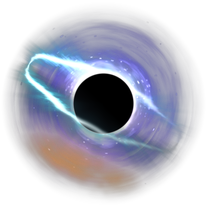
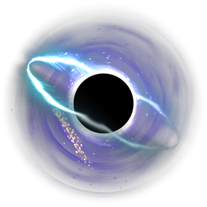
Ringed black hole: feed the ring with a narrow stream of golden dust
The golden cloud below becomes a thin stream of grains, each with a short
trail, drifting up from below and falling into the ring on its near side.

Claude-Session: https://claude.ai/code/session_01Qg6ZbjjWLi3AZ8z83RBn1h

diff --git a/tools/make_barriers.py b/tools/make_barriers.py
@@ -1394,13 +1394,13 @@ def build_protostars(rng, out, save, apply_mask, starfield, mask):
 # ---------------------------------------------------------------- ringed black hole
 # A black hole seen without a bright accretion disc: a dead-black globe in
 # a violet halo of light its gravity bends round it, crossed by one thin
-# tilted ring of glowing gas, cyan-white and fraying at the edges, with a
-# drift of golden dust trailing off below. Drawn for one hex (^Yrb) and
-# for a triangle of three (^Ytrb).
+# tilted ring of glowing gas, cyan-white and fraying at the edges, fed
+# by a narrow stream of golden dust drifting in from below. Drawn for one
+# hex (^Yrb) and for a triangle of three (^Ytrb).
 
 def ringed_black_hole(rng, size=128, R=14, A=46, tilt=0.3, angle=28, ring_w=1.1,
                       halo=(0.36, 0.3, 1.0), halo_hot=(0.85, 0.8, 1.0), ring=(0.35, 0.9, 1.0),
-                      dust=(1.0, 0.66, 0.16), dust_k=1.0, n_specks=60):
+                      dust=(1.0, 0.66, 0.16), dust_k=1.0, n_specks=60, n_grains=90):
     """`R` is the globe's radius and `A` the ring's (half its width), in
     pixels of the finished `size` square; the ring is seen at `tilt` (1
     face-on) and turned `angle` degrees, its near half crossing in front of
@@ -1429,13 +1429,7 @@ def ringed_black_hole(rng, size=128, R=14, A=46, tilt=0.3, angle=28, ring_w=1.1,
     rim = np.exp(-((d - R * 1.04) / (0.05 * R + 0.3)) ** 2) * (0.6 + 0.4 * arcs2)
     back += np.array(halo_hot, np.float32) * rim[..., None] * 0.8
 
-    # golden dust trailing off low on the left, behind everything
-    dn = _noise(rng, W, 5, 3)
-    ca, sa = math.cos(math.radians(angle)), math.sin(math.radians(angle))
-    dx, dy = x + 0.3 * A, y - 0.68 * A
-    blob = np.exp(-((dx * ca + dy * sa) / (0.75 * A)) ** 2 - ((-dx * sa + dy * ca) / (0.26 * A)) ** 2)
-    gold = np.clip(blob * (0.2 + 1.2 * dn ** 1.5) * (0.6 + 0.6 * arcs) - 0.05, 0, None) * dust_k
-    back += np.array(dust, np.float32) * gold[..., None]
+    dn = _noise(rng, W, 5, 3)                                # mottles the stream of dust below
 
     # the ring, with its own glow; in front of the globe on its near side
     u, v, rho, ang = _ring_frame(x, y, tilt, angle)
@@ -1474,6 +1468,45 @@ def ringed_black_hole(rng, size=128, R=14, A=46, tilt=0.3, angle=28, ring_w=1.1,
     specks = _fblur(np.asarray(pil, np.float32), S * 0.4) * (d > R)
     back += np.array((0.85, 0.85, 1.0), np.float32) * specks[..., None]
 
+    # a narrow stream of golden dust drifting up from below and falling
+    # into the ring on its near side, joining it as it sweeps up and round
+    # on the left: a faint glow along the path, strewn with grains, each
+    # with a short trail behind it
+    t0 = math.radians(140)
+    ca, sa = math.cos(math.radians(angle)), math.sin(math.radians(angle))
+    ju, jv = -A * math.cos(math.pi - t0), A * tilt * math.sin(t0)
+    J = np.array((ju * ca - jv * sa, ju * sa + jv * ca))
+    tu, tv = -math.sin(t0), tilt * math.cos(t0)
+    T = np.array((tu * ca - tv * sa, tu * sa + tv * ca)); T /= np.linalg.norm(T)
+    P = [np.array((-0.1 * A, 0.92 * A)), np.array((-0.25 * A, 0.6 * A)), J - 0.35 * A * T, J]
+
+    def bez(t):
+        t = np.asarray(t)[..., None]
+        return ((1 - t) ** 3 * P[0] + 3 * (1 - t) ** 2 * t * P[1] + 3 * (1 - t) * t ** 2 * P[2] + t ** 3 * P[3])
+
+    ts = np.linspace(0, 1, 400)
+    path = bez(ts)
+    fade = lambda t: np.clip(t / 0.25, 0, 1) ** 1.5        # thins out into nothing far from the ring
+    sigma = lambda t: ring_w * (1.6 - 0.9 * t)              # and narrows as it falls in
+    pil = Image.fromarray(np.zeros((W, W), np.float32), "F"); dr = ImageDraw.Draw(pil)
+    for i in range(len(ts) - 1):                            # the glow along the path
+        (x0, y0), (x1, y1) = path[i], path[i + 1]
+        dr.line([(c0 + x0 * S, c0 + y0 * S), (c0 + x1 * S, c0 + y1 * S)], fill=float(fade(ts[i]) * (0.4 + 0.6 * ts[i])), width=S)
+    glow_s = _fblur(np.asarray(pil, np.float32), S * ring_w * 1.4) * (0.6 + 0.8 * dn)
+    pil = Image.fromarray(np.zeros((W, W), np.float32), "F"); dr = ImageDraw.Draw(pil)
+    for _ in range(n_grains):
+        t = rng.beta(1.8, 1.1)
+        p = bez(t); q = bez(min(t + 0.01, 1)); dirn = (q - p) / max(np.linalg.norm(q - p), 1e-6)
+        p = p + np.array((-dirn[1], dirn[0])) * rng.normal(0, sigma(t))
+        tail = p - dirn * rng.uniform(0.8, 2.2) * (0.6 + 0.8 * t)      # a trail behind, longer as it speeds up
+        b = float(rng.choice([0.5, 0.9, 1.6], p=[0.5, 0.35, 0.15])) * fade(t)
+        dr.line([(c0 + tail[0] * S, c0 + tail[1] * S), (c0 + p[0] * S, c0 + p[1] * S)], fill=b * 0.45, width=max(1, S - 1))
+        dr.ellipse([c0 + p[0] * S - S * 0.5, c0 + p[1] * S - S * 0.5, c0 + p[0] * S + S * 0.5, c0 + p[1] * S + S * 0.5], fill=b)
+    grains = _fblur(np.asarray(pil, np.float32), S * 0.35)
+    stream = np.array(dust, np.float32) * (glow_s * 1.1 * dust_k)[..., None] \
+        + np.array((1.0, 0.74, 0.32), np.float32) * (grains * 1.6 * dust_k)[..., None]
+    back += stream * (1 - globe)[..., None]
+
     disc_rgb = np.zeros((W, W, 3), np.float32)
     # the globe is not quite flat black: the ring's glow catches its lower left
     disc_rgb += np.array((22, 24, 34), np.float32) * np.clip((-x + y) / (2 * R), 0, 1)[..., None]
@@ -1482,7 +1515,7 @@ def ringed_black_hole(rng, size=128, R=14, A=46, tilt=0.3, angle=28, ring_w=1.1,
 
 
 RINGED_ONE = dict()                                         # ^Yrb: 128 px, as the plain star
-RINGED_SMALL = dict(size=207, R=30, A=84, ring_w=1.6, n_specks=140)  # ^Ytrb: as the three-hex protostar
+RINGED_SMALL = dict(size=207, R=30, A=84, ring_w=1.6, n_specks=140, n_grains=220)  # ^Ytrb: as the three-hex protostar
 
 
 def build_ringed_black_holes(rng, out, save, apply_mask, starfield, mask):
